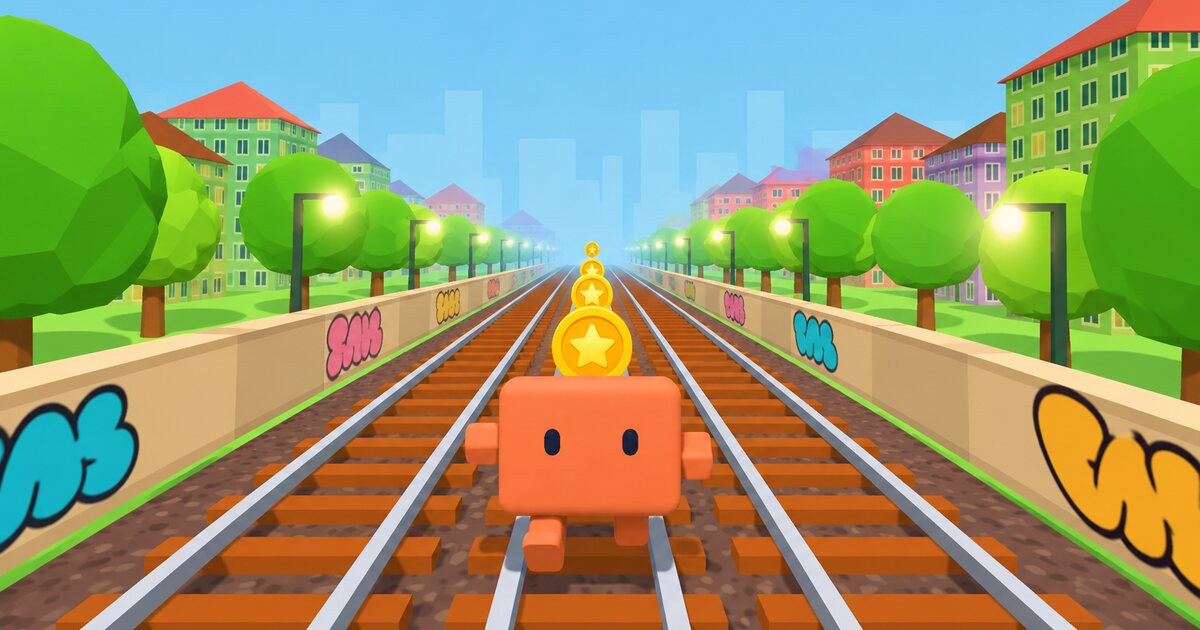
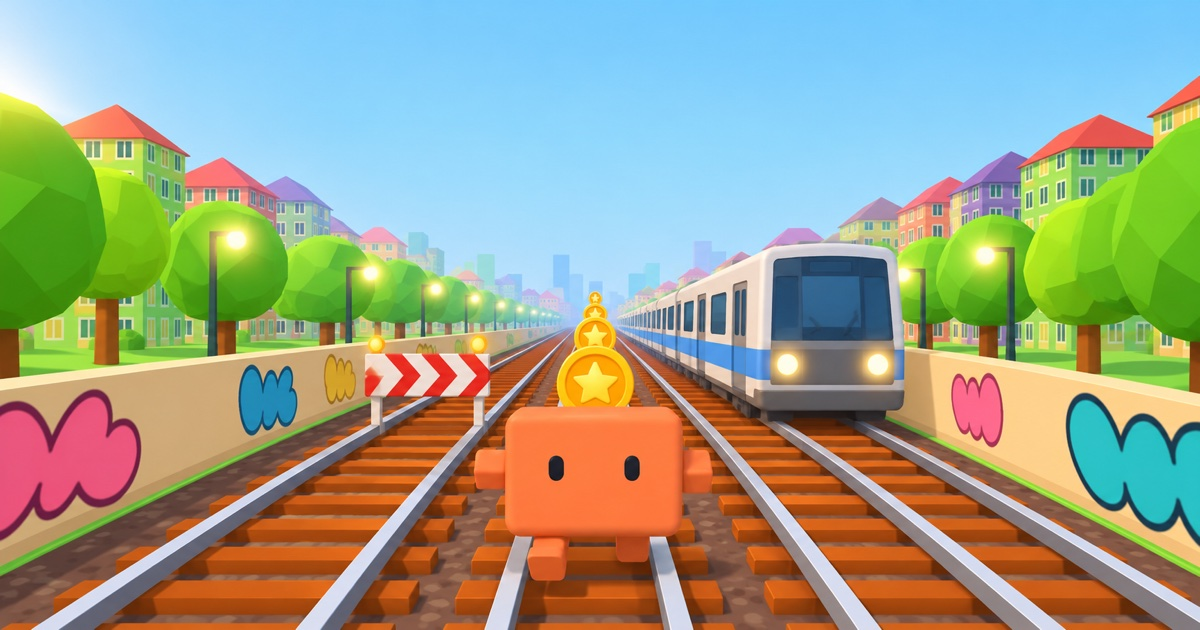
clawders: rename to Commuting Clawders, new share art

diff --git a/apps/mod-clawders/leaderboard/src/components/demo.tsx b/apps/mod-clawders/leaderboard/src/components/demo.tsx
@@ -90,7 +90,7 @@ const Composer = ({ input }: { input: string }) => (
   </div>
 );
 
-// The mod at work: a Claude Code session on the left, the Clawders pane on
+// The mod at work: a Claude Code session on the left, the Commuting Clawders pane on
 // the right running the real game, both driven by one scripted loop.
 export const Demo = ({ standings, totals }: { standings: Standing[]; totals: Totals }) => {
   const hostRef = useRef<HTMLDivElement>(null);
@@ -146,7 +146,7 @@ export const Demo = ({ standings, totals }: { standings: Standing[]; totals: Tot
   const glyph = SPINNER[Math.floor(time * 6) % SPINNER.length];
 
   return (
-    <section aria-label="Clawders running beside Claude Code" className="demo">
+    <section aria-label="Commuting Clawders running beside Claude Code" className="demo">
       <div className="terminal" id="terminal">
         {isLeaderboardOpen ? (
           <div className="board-view">
@@ -156,7 +156,7 @@ export const Demo = ({ standings, totals }: { standings: Standing[]; totals: Tot
         ) : (
           <>
             <fieldset className="welcome">
-              <legend>Clawders</legend>
+              <legend>Commuting Clawders</legend>
               <ClawdSprite />
               <p>Keep Claude working. Every token Claude writes is a point.</p>
             </fieldset>
@@ -209,7 +209,7 @@ export const Demo = ({ standings, totals }: { standings: Standing[]; totals: Tot
 
       <div className="pane">
         <div className="pane-bar">
-          <span>Clawders</span>
+          <span>Commuting Clawders</span>
           <button
             aria-controls="terminal"
             aria-pressed={isLeaderboardOpen}

diff --git a/apps/mod-clawders/hooks/register.tsx b/apps/mod-clawders/hooks/register.tsx
@@ -26,7 +26,7 @@ import type { Frame, Mode } from "./screen";
 
 const PANE = "clawders";
 const SCREEN = "game";
-const TITLE = "Clawders";
+const TITLE = "Commuting Clawders";
 const FRAME_MS = 33;
 const TALLY_MS = 1000;
 const LOG_MAX = 4000;
@@ -137,7 +137,7 @@ const startStreamer = async ($: EngineInterface) => {
   if ((await $.env.get("OS")) === "Windows_NT") {
     await update($, view, (): View => ({
       kind: "failed",
-      reason: "Clawders runs on macOS and Linux",
+      reason: "Commuting Clawders runs on macOS and Linux",
     }));
     return;
   }
@@ -390,14 +390,16 @@ export const register: Register = (on, options) => {
       sameSize(latest, size) &&
       streamer.kind === "live";
     let game = (
-      <Text dimColor>{shown.kind === "failed" ? `✗ ${shown.reason}` : "Starting Clawders…"}</Text>
+      <Text dimColor>
+        {shown.kind === "failed" ? `✗ ${shown.reason}` : "Starting Commuting Clawders…"}
+      </Text>
     );
     screen.mounted = null;
     if (isMountable && screen.mode === "image" && latest.cells === undefined) {
       screen.mounted = { ...size, mode: "image" };
       game = (
         <Image
-          alt="Clawders"
+          alt="Commuting Clawders"
           columns={size.columns}
           key={SCREEN}
           rows={size.rows}

diff --git a/apps/mod-clawders/leaderboard/src/app/opengraph-image.tsx b/apps/mod-clawders/leaderboard/src/app/opengraph-image.tsx
@@ -6,7 +6,7 @@ import { ImageResponse } from "next/og";
 import { formatCount } from "@/lib/format";
 import { standings } from "@/lib/standings";
 
-export const alt = "Clawders: Keep Clawd running";
+export const alt = "Commuting Clawders: Keep Clawd running";
 export const contentType = "image/png";
 export const size = { height: 630, width: 1200 };
 export const revalidate = 300;
@@ -42,14 +42,17 @@ const OpengraphImage = async () => {
         <div
           style={{
             WebkitTextStroke: `18px ${NAVY}`,
+            alignItems: "center",
             color: "white",
+            display: "flex",
+            flexDirection: "column",
             fontFamily: "Titan One",
-            fontSize: 150,
             lineHeight: 1,
             transform: "rotate(-2deg)",
           }}
         >
-          Clawders
+          <span style={{ fontSize: 84 }}>Commuting</span>
+          <span style={{ fontSize: 150 }}>Clawders</span>
         </div>
         <div
           style={{

diff --git a/apps/kyh/src/app/showcase/_components/city/landmarks-outskirts.ts b/apps/kyh/src/app/showcase/_components/city/landmarks-outskirts.ts
@@ -1,5 +1,5 @@
 // More big projects: Inteligir's round tower, the Dataembed stack,
-// Edgestories' observatory, the Clawders track and Init's launch pad.
+// Edgestories' observatory, the Commuting Clawders track and Init's launch pad.
 import type { DrawLandmark } from "./landmark";
 import type { Point2, Sketch, Vec3 } from "./sketch";
 import {
@@ -339,7 +339,7 @@ export const drawEdgestories: DrawLandmark = (sketch, site, title) => {
   return bounds(lab, y0, height + 1.2);
 };
 
-// Clawders: a running track where Clawd runs laps, forever.
+// Commuting Clawders: a running track where Clawd runs laps, forever.
 
 /** A stadium outline: two half circles joined by straights, along x. */
 export const stadium = (

diff --git a/apps/mod-clawders/leaderboard/src/app/layout.tsx b/apps/mod-clawders/leaderboard/src/app/layout.tsx
@@ -15,17 +15,17 @@ export const metadata: Metadata = {
   metadataBase: new URL(SITE_URL),
   openGraph: {
     description,
-    siteName: "Clawders",
-    title: "Clawders",
+    siteName: "Commuting Clawders",
+    title: "Commuting Clawders",
     type: "website",
     url: SITE_URL,
   },
-  title: "Clawders",
+  title: "Commuting Clawders",
   twitter: {
     card: "summary_large_image",
     creator: "@kaiyuhsu",
     description,
-    title: "Clawders",
+    title: "Commuting Clawders",
   },
 };
 

diff --git a/apps/mod-clawders/leaderboard/src/lib/demo.ts b/apps/mod-clawders/leaderboard/src/lib/demo.ts
@@ -154,7 +154,7 @@ export const demoAt = (time: number): DemoState => {
         run = { kind: "idle", last: { ...result, rank: null } };
         lines.push({
           kind: "note",
-          text: `Clawders: run over at ${result.tokens.toLocaleString("en-US")} tokens, posted to the leaderboard`,
+          text: `Commuting Clawders: run over at ${result.tokens.toLocaleString("en-US")} tokens, posted to the leaderboard`,
         });
       }
     }

diff --git a/apps/mod-clawders/test/clawders.test.ts b/apps/mod-clawders/test/clawders.test.ts
@@ -78,10 +78,10 @@ const turn = async ($: Engine, tokens: number) => {
   });
 };
 
-test("opens the Clawders pane when the session starts", async ($, on) => {
+test("opens the Commuting Clawders pane when the session starts", async ($, on) => {
   const { opened } = world(on);
   await $.session.start(start);
-  expect(opened).toEqual(["Clawders"]);
+  expect(opened).toEqual(["Commuting Clawders"]);
 });
 
 test(

diff --git a/apps/mod-clawders/dist/world/index.html b/apps/mod-clawders/dist/world/index.html
@@ -3,7 +3,7 @@
   <head>
     <meta charset="utf-8" />
     <meta name="viewport" content="width=device-width, initial-scale=1" />
-    <title>Clawders</title>
+    <title>Commuting Clawders</title>
     <style>html,body{background:#000;height:100%;margin:0;overflow:hidden}canvas{display:block}</style>
     <script type="module" crossorigin src="/assets/index-Dlng-ETU.js"></script>
   </head>

diff --git a/apps/mod-clawders/leaderboard/src/app/page.tsx b/apps/mod-clawders/leaderboard/src/app/page.tsx
@@ -7,7 +7,7 @@ const HomePage = async () => {
   const [rows, total] = await Promise.all([standings(), totals()]);
   return (
     <main>
-      <h1 className="visually-hidden">Clawders</h1>
+      <h1 className="visually-hidden">Commuting Clawders</h1>
       <Demo standings={rows} totals={total} />
     </main>
   );

diff --git a/apps/mod-clawders/leaderboard/src/app/globals.css b/apps/mod-clawders/leaderboard/src/app/globals.css
@@ -44,7 +44,7 @@ code {
   white-space: nowrap;
 }
 
-/* The demo: Claude Code on the left, the Clawders pane on the right. */
+/* The demo: Claude Code on the left, the Commuting Clawders pane on the right. */
 .demo {
   display: grid;
   grid-template-columns: minmax(0, 1fr) minmax(0, 1.15fr);

diff --git a/apps/kyh/src/lib/data.ts b/apps/kyh/src/lib/data.ts
@@ -289,7 +289,7 @@ export const projects: ProjectType[] = [
     favicon: getPublicFaviconUrl("clawders.png"),
     projectAssets: [],
     slug: "clawders",
-    title: "Clawders",
+    title: "Commuting Clawders",
     type: "mini-app",
     url: "https://clawders.kyh.io",
   },

diff --git a/apps/mod-clawders/world/index.html b/apps/mod-clawders/world/index.html
@@ -3,7 +3,7 @@
   <head>
     <meta charset="utf-8" />
     <meta name="viewport" content="width=device-width, initial-scale=1" />
-    <title>Clawders</title>
+    <title>Commuting Clawders</title>
     <style>
       html,
       body {
